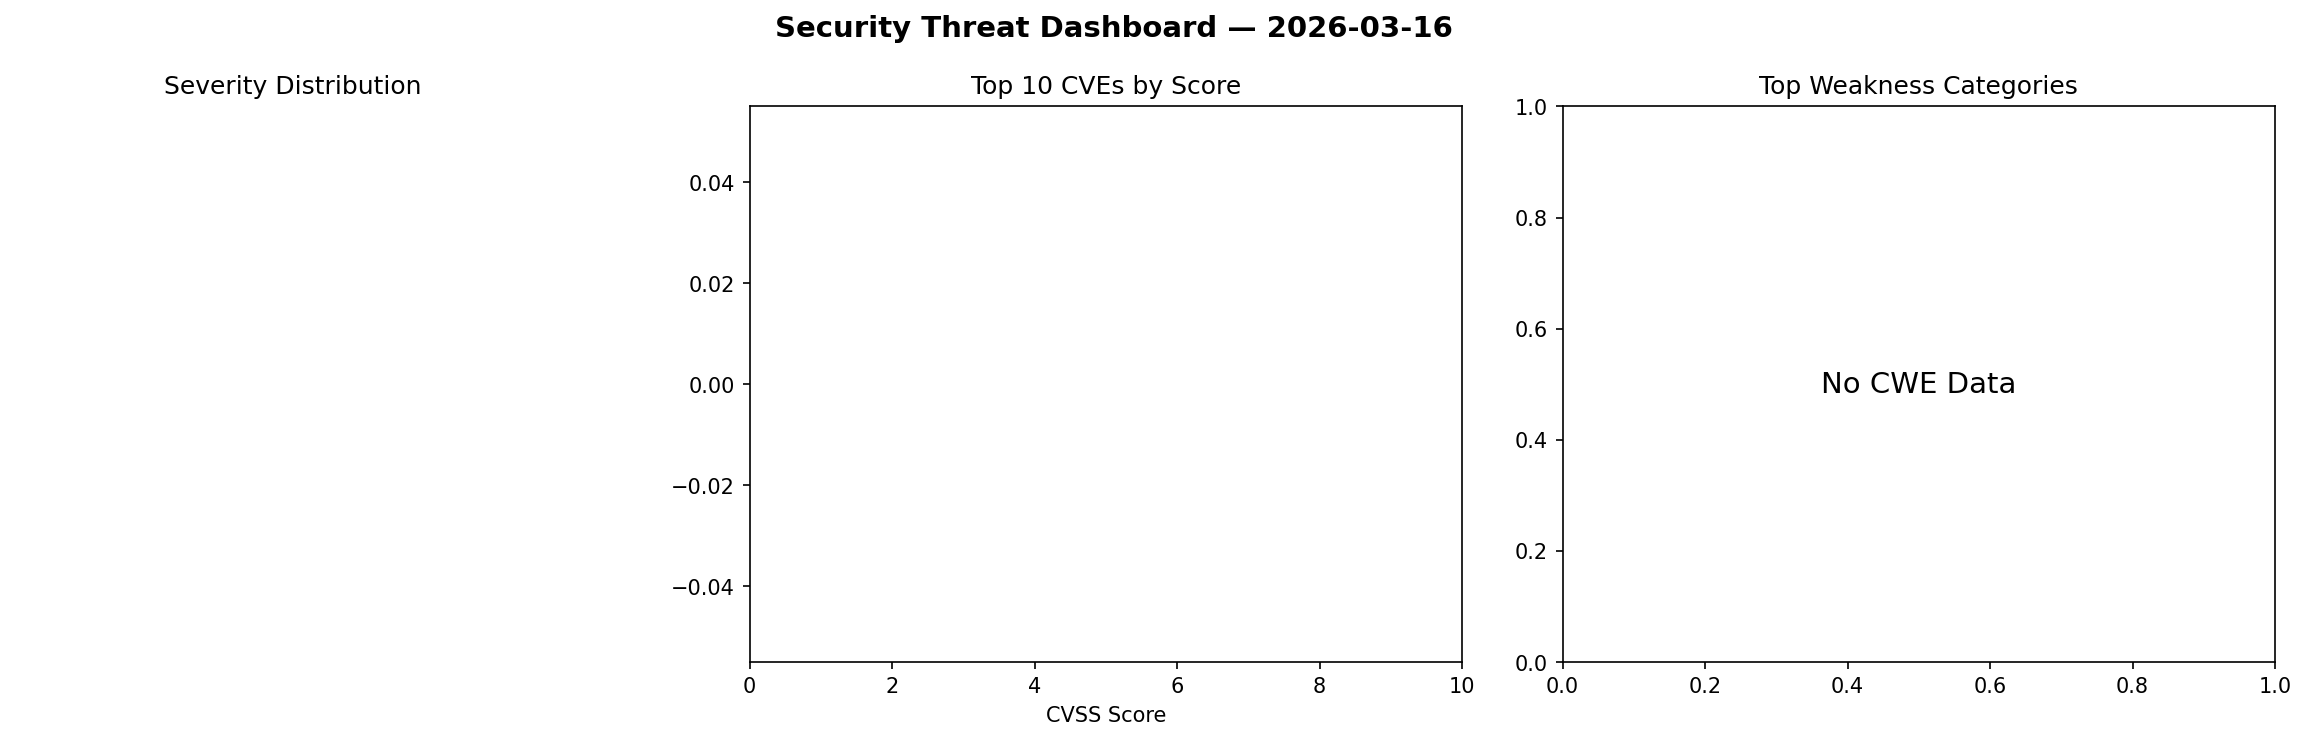
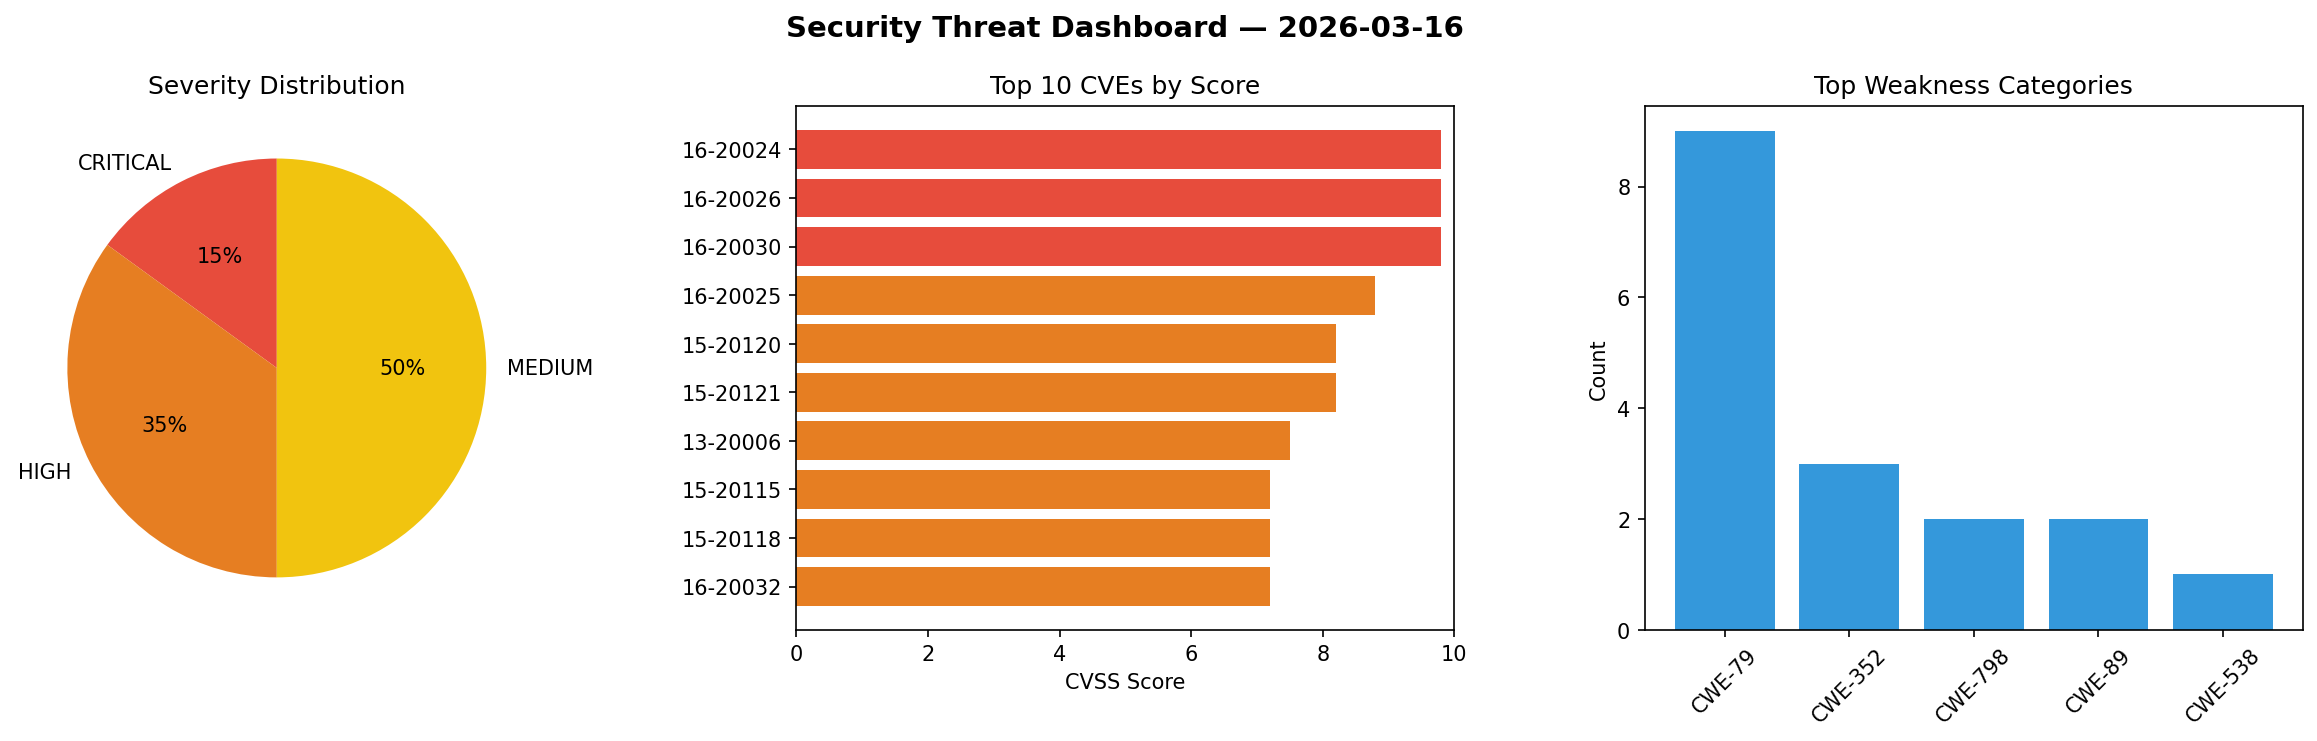
daily-experiments: security scan 2026-03-16T15:35

diff --git a/logs/2026-03-16.md b/logs/2026-03-16.md
@@ -1,6 +1,6 @@
 # Security Scan Report — 2026-03-16
 
-**Scan ID:** `91e48545e8` | **CVEs:** 0 | **Threat Index:** 0
+**Scan ID:** `c8a561cb98` | **CVEs:** 20 | **Threat Index:** 393.7
 
 ![Dashboard](2026-03-16_dashboard.png)
 
@@ -10,18 +10,46 @@
 
 | Metric | Value |
 |--------|-------|
-| Threat Index | 0 |
-| Critical CVEs | 0 |
+| Threat Index | 393.7 |
+| Critical CVEs | 3 |
+| CRITICAL | 3 |
+| HIGH | 7 |
+| MEDIUM | 10 |
 
 ## Delta vs Yesterday
 
 | Metric | Today | Yesterday | Change |
 |--------|-------|-----------|--------|
-| total_cves | 0 | 20 | 📉 -100.0% |
-| threat_index | 0 | 184.2 | 📉 -100.0% |
-| critical_count | 0 | 0 | ➡ 0% |
+| total_cves | 20 | 20 | ➡ 0.0% |
+| threat_index | 393.7 | 184.2 | 📈 113.7% |
+| critical_count | 3 | 0 | ➡ 0% |
+
+## Top Weakness Categories
+
+| CWE | Count |
+|-----|-------|
+| CWE-79 | 9 |
+| CWE-352 | 3 |
+| CWE-798 | 2 |
+| CWE-89 | 2 |
+| CWE-538 | 1 |
 
 ## CVE Details
 
 | CVE ID | Score | Severity | Description |
 |--------|-------|----------|-------------|
+| CVE-2016-20024 | 9.8 | CRITICAL | ZKTeco ZKTime.Net 3.0.1.6 contains an insecure file permissions vulnerability th... |
+| CVE-2016-20026 | 9.8 | CRITICAL | ZKTeco ZKBioSecurity 3.0 contains hardcoded credentials in the bundled Apache To... |
+| CVE-2016-20030 | 9.8 | CRITICAL | ZKTeco ZKBioSecurity 3.0 contains a user enumeration vulnerability that allows u... |
+| CVE-2016-20025 | 8.8 | HIGH | ZKTeco ZKAccess Professional 3.5.3 contains an insecure file permissions vulnera... |
+| CVE-2015-20120 | 8.2 | HIGH | Next Click Ventures RealtyScript 4.0.2 contains multiple time-based blind SQL in... |
+| CVE-2015-20121 | 8.2 | HIGH | Next Click Ventures RealtyScript 4.0.2 contains SQL injection vulnerabilities th... |
+| CVE-2013-20006 | 7.5 | HIGH | Qool CMS contains multiple persistent cross-site scripting vulnerabilities in se... |
+| CVE-2015-20115 | 7.2 | HIGH | Next Click Ventures RealtyScript 4.0.2 fails to properly sanitize file uploads, ... |
+| CVE-2015-20118 | 7.2 | HIGH | Next Click Ventures RealtyScript 4.0.2 contains a stored cross-site scripting vu... |
+| CVE-2016-20032 | 7.2 | HIGH | ZKTeco ZKAccess Security System 5.3.1 contains a stored cross-site scripting vul... |
+| CVE-2015-20119 | 6.4 | MEDIUM | Next Click Ventures RealtyScript 4.0.2 contains a stored cross-site scripting vu... |
+| CVE-2016-20029 | 6.2 | MEDIUM | ZKTeco ZKBioSecurity 3.0 contains a file path manipulation vulnerability that al... |
+| CVE-2015-20114 | 6.1 | MEDIUM | Next Click Ventures RealtyScript 4.0.2 contains a cross-site scripting vulnerabi... |
+| CVE-2015-20116 | 6.1 | MEDIUM | Next Click Ventures RealtyScript 4.0.2 fails to properly sanitize CSV file uploa... |
+| CVE-2016-20027 | 6.1 | MEDIUM | ZKTeco ZKBioSecurity 3.0 contains multiple reflected cross-site scripting vulner... |
